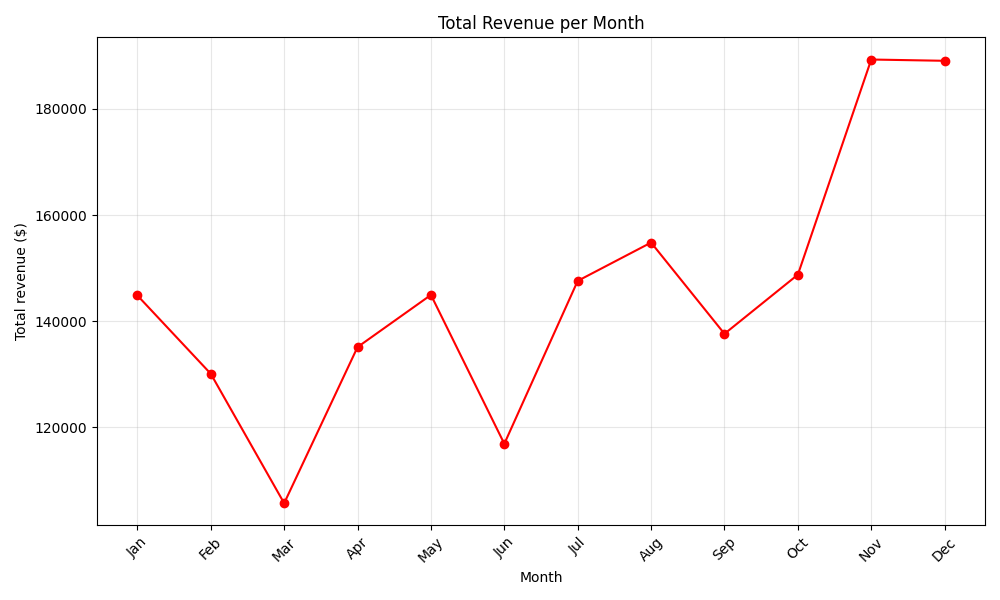
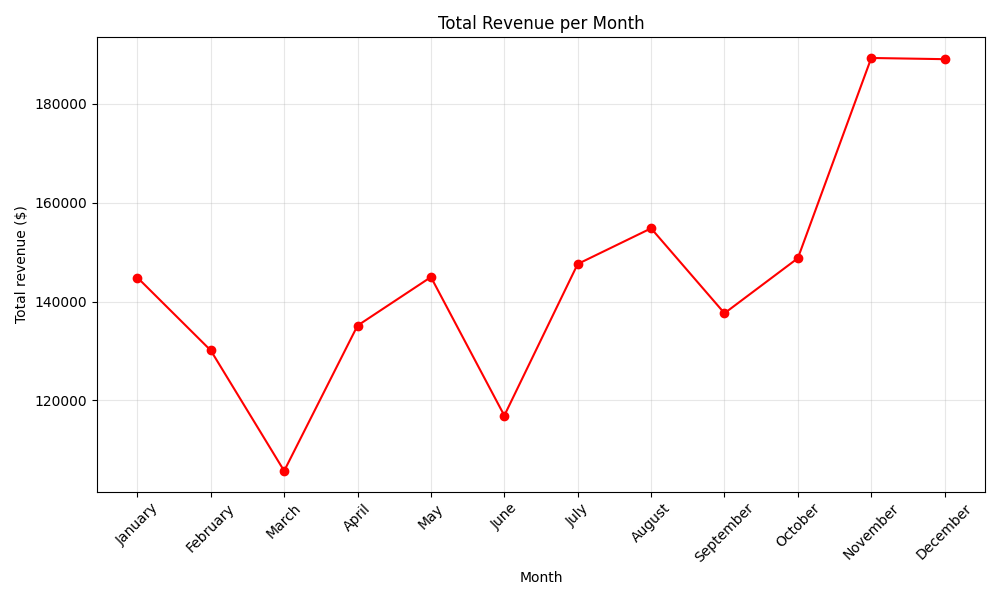
Full month

diff --git a/README.md b/README.md
@@ -21,8 +21,8 @@ sales_analysis/
 │   ├── region-chart.png
 │   ├── product-chart.png
 │   ├── customer-chart.png
-    ├── month-chart.png
-    └── month-plot.png
+|   ├── month-chart.png
+|   └── month-plot.png
 │
 ├── src/
 │   ├── __init__.py